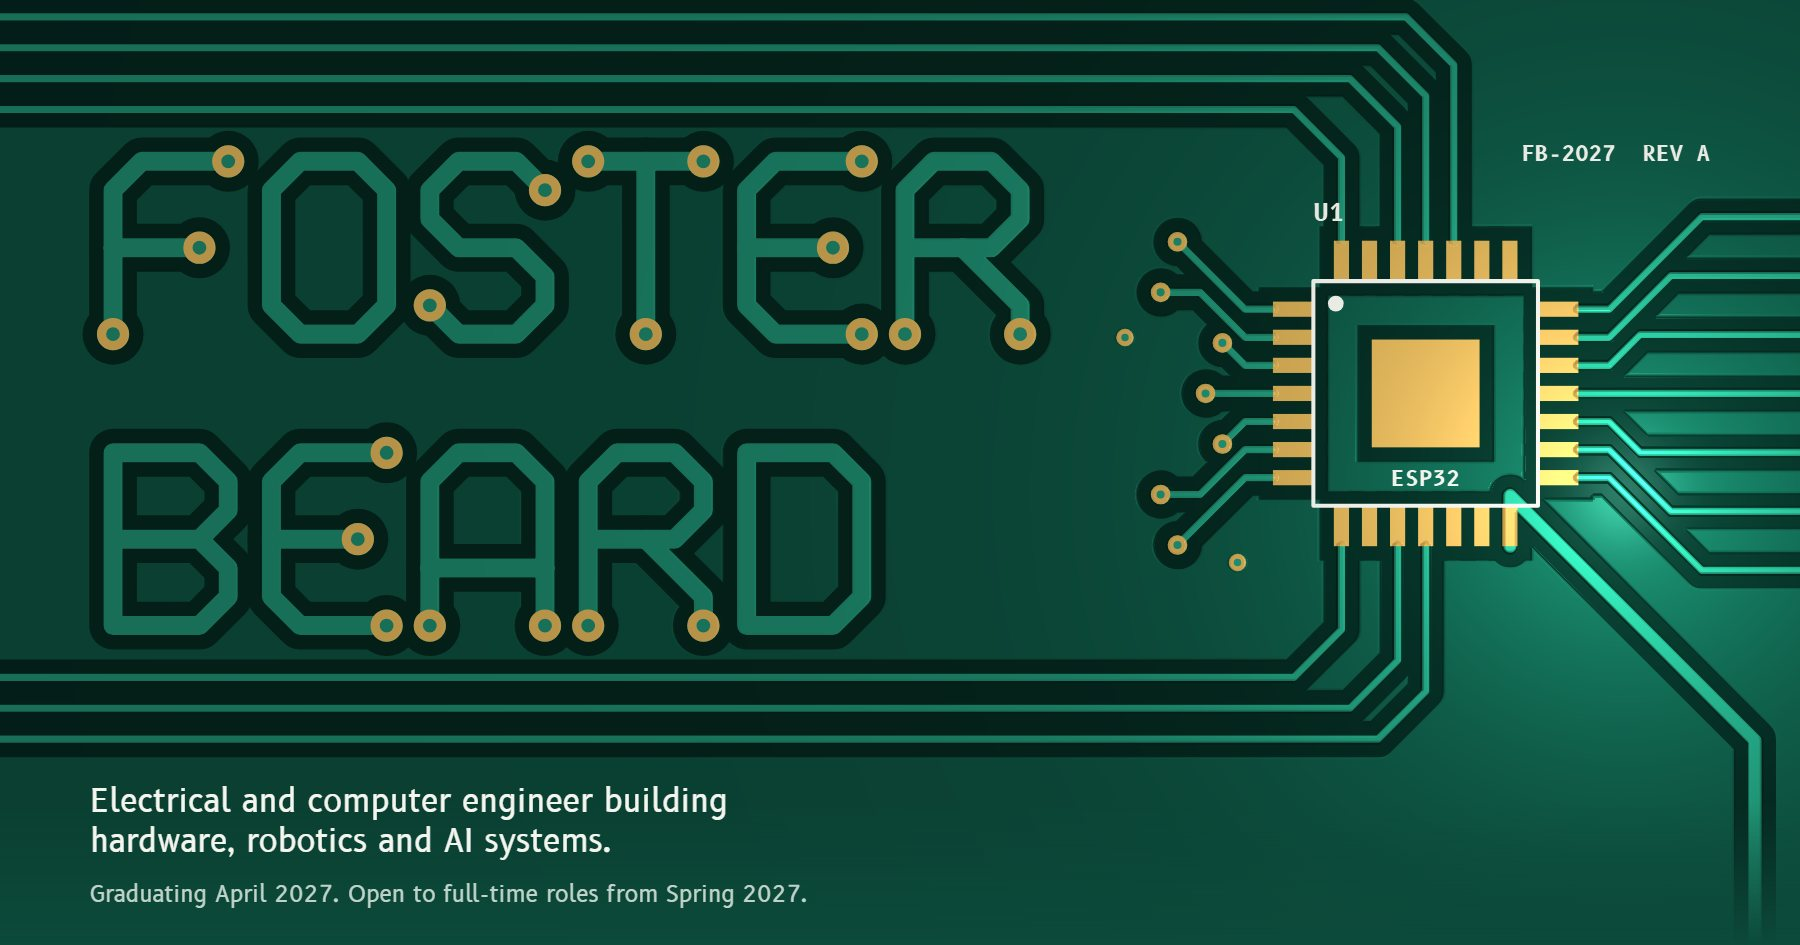
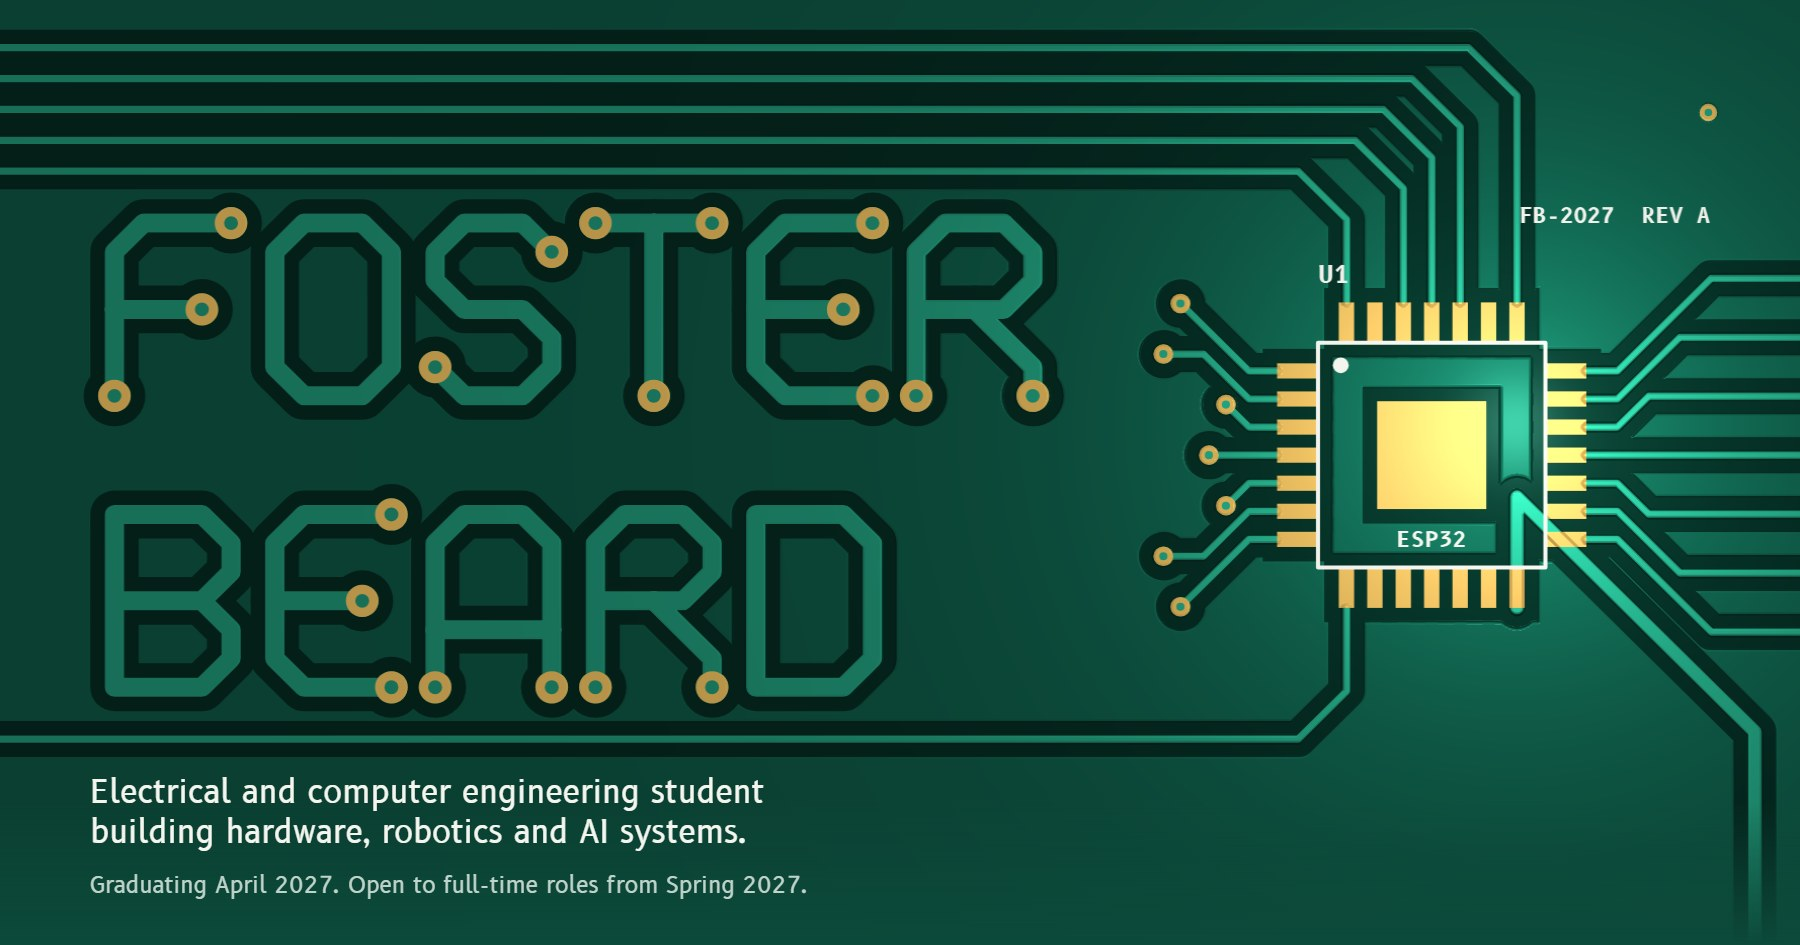
Describe Foster as an engineering student and correct site details
- Hero, page title, search description, structured data and the link
  preview image now say "engineering student", since "engineer" is a
  protected title in Ontario.
- Location now reads Bobcaygeon and London, with work wanted in the GTA
  or near Bobcaygeon.
- Spot welder and smart home are teams of 3; the volume remote is solo.
- The nav follows the home page's section order (About before Work).
- Toolbox group renamed "Hardware and power", since it holds the CAD tools.
- Timeline: the last year label no longer runs off a phone screen, and
  dates and places are separated by a dot.
- Cleared the TODOs the user has now answered.

diff --git a/src/content.ts b/src/content.ts
@@ -128,17 +128,18 @@ export interface Project {
 
 export const site = {
   name: 'Foster Beard',
-  title: 'Foster Beard | Electrical and Computer Engineer',
+  title: 'Foster Beard | Electrical and Computer Engineering Student',
   description:
-    'Foster Beard is an electrical and computer engineer building hardware, robotics and AI systems. Graduating from Western University in April 2027 and open to full-time roles from Spring 2027.',
-  location: 'Ontario, Canada (GTA / London)',
+    'Foster Beard is an electrical and computer engineering student at Western University, building hardware, robotics and AI systems. Graduating in April 2027 and open to full-time roles from Spring 2027.',
+  location: 'Bobcaygeon and London, Ontario',
   /** Printed on the circuit board in the hero. */
   boardMark: 'FB-2027  REV A',
 };
 
+/** In the same order as the sections on the home page. */
 export const nav: LinkItem[] = [
-  { label: 'Work', href: '/#work' },
   { label: 'About', href: '/#about' },
+  { label: 'Work', href: '/#work' },
   { label: 'Toolbox', href: '/#toolbox' },
   { label: 'Experience', href: '/#experience' },
   { label: 'Résumé', href: '/#resume' },
@@ -151,7 +152,7 @@ export const nav: LinkItem[] = [
 export const hero = {
   /** Lettered in copper traces. Capitals, one array entry per line. */
   name: ['FOSTER', 'BEARD'],
-  lead: 'Electrical and computer engineer building hardware, robotics and AI systems.',
+  lead: 'Electrical and computer engineering student building hardware, robotics and AI systems.',
   availability: 'Graduating April 2027. Open to full-time roles from Spring 2027.',
   primaryCta: { label: 'View work', href: '/#work' },
   secondaryCta: { label: 'Get in touch', href: '/#contact' },
@@ -168,8 +169,8 @@ export const about = {
   facts: [
     { label: 'Studying', value: 'BESc, Electrical & Computer Engineering and AI Systems Engineering (dual degree), Western University' },
     { label: 'Graduating', value: 'April 2027' },
-    { label: 'Looking for', value: 'Full-time engineering roles starting Spring 2027' },
-    { label: 'Based in', value: 'Ontario (GTA / London)' },
+    { label: 'Looking for', value: 'Full-time engineering roles from Spring 2027, in the GTA or near Bobcaygeon' },
+    { label: 'Based in', value: 'Bobcaygeon, ON, and London, ON during the school year' },
   ],
   // TODO: add a portrait to src/assets/projects/about/ and set src, for example 'projects/about/portrait.jpg'.
   portrait: {
@@ -351,7 +352,8 @@ export const projects: Project[] = [
     board: 'red',
     chip: 'ESP32',
     summary: 'A high-current power supply on a custom PCB, with ESP32-based closed-loop current control.',
-    role: 'Design and build', // TODO: confirm, and add a team if this was not a solo project.
+    role: 'Design and build',
+    team: 'Team of 3',
     when: 'Jan 2026 to May 2026',
     tags: ['Power electronics', 'Closed-loop control', 'ESP32', 'Custom PCB', 'Hall-effect sensing'],
     // TODO: confirm this framing of the problem. It is written from your résumé.
@@ -395,7 +397,8 @@ export const projects: Project[] = [
     board: 'purple',
     chip: 'RPI 5',
     summary: 'A Raspberry Pi 5 home automation hub with integrated sensors and computer vision facial recognition.',
-    role: 'Design and build', // TODO: confirm, and add a team if this was not a solo project.
+    role: 'Design and build',
+    team: 'Team of 3',
     when: 'Jan 2026 to April 2026',
     tags: ['Raspberry Pi 5', 'Computer vision', 'Facial recognition', 'Sensors'],
     // TODO: confirm this framing of the problem. It is written from your résumé.
@@ -557,7 +560,8 @@ export const projects: Project[] = [
     board: 'amber',
     chip: 'ESP32',
     summary: 'A wireless remote that physically turns a surround sound receiver’s volume knob.',
-    role: 'Design and build', // TODO: confirm, and add a team if this was not a solo project.
+    role: 'Design and build',
+    team: 'Solo project',
     when: 'Sept 2024, redesigned Feb 2026',
     tags: ['ESP32', 'Stepper motor', 'Custom PCB', 'Low-power firmware', 'SolidWorks'],
     // TODO: confirm this framing of the problem. It is written from your résumé.
@@ -630,7 +634,7 @@ export const toolbox = {
       items: ['ESP32', 'Raspberry Pi', 'Arduino', 'Embedded C and C++', 'RTOS and real-time scheduling', 'Interrupt-driven firmware', 'Motor control', 'Sensor integration and calibration'],
     },
     {
-      name: 'PCB design and power',
+      name: 'Hardware and power',
       items: ['Custom PCB design', 'Autodesk Eagle', 'SolidWorks Electrical', 'Power electronics', 'Closed-loop current control', 'Solar charge controllers', 'Three-phase power', 'SolidWorks, Fusion 360, Onshape'],
     },
     {
@@ -682,7 +686,7 @@ export const experience = {
       dates: 'June 2023 to present, seasonal',
       where: 'Gamebridge, ON',
       detail: 'Operate canal locks and swing bridge equipment over four seasons, and monitor and maintain the mechanical and electrical lock equipment.',
-      // TODO: confirm the months each season ran.
+      // Each season ran June to September.
       spans: [[2023.42, 2023.75], [2024.42, 2024.75], [2025.42, 2025.75], [2026.42, 2026.75]],
     },
     {
@@ -743,11 +747,10 @@ export const resume = {
 export const contact = {
   heading: 'GET IN TOUCH',
   blurb: 'I’m looking for full-time engineering roles starting Spring 2027, in hardware, robotics and AI systems.',
-  location: 'Based in Ontario (GTA / London)',
+  location: 'Based in Bobcaygeon and London, ON',
   links: [
     { label: 'Email', value: 'foster5beard@gmail.com', href: 'mailto:foster5beard@gmail.com' },
     { label: 'LinkedIn', value: 'in/fosterbeard', href: 'https://www.linkedin.com/in/fosterbeard' },
-    // TODO: confirm this is the GitHub profile you want to show.
     { label: 'GitHub', value: 'fosteb5', href: 'https://github.com/fosteb5' },
     { label: 'Phone', value: '(705) 731-9471', href: 'tel:+17057319471' },
   ],
